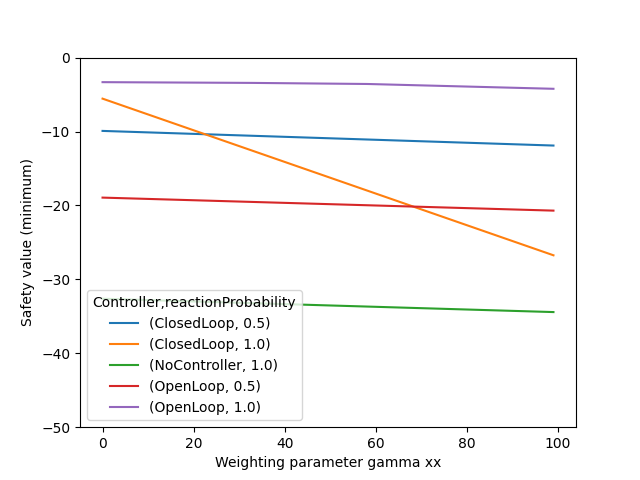
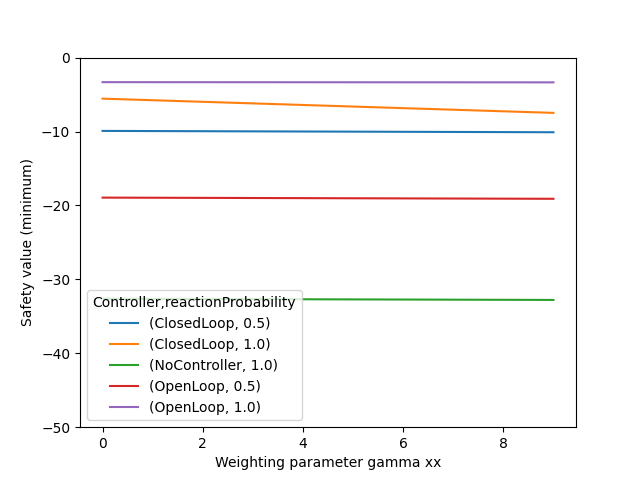
adjust range

diff --git a/analysis/uq/simulation_studies/guiding_crowds_forward_propagation/step_3_analyze_results.py b/analysis/uq/simulation_studies/guiding_crowds_forward_propagation/step_3_analyze_results.py
@@ -197,7 +197,7 @@ def get_safety_values(densities_normed):
     variances_ = densities_normed.groupby(by=["Controller", reaction_prob_key_short]).mad()**2
     variances_.drop(columns=[simulation_time], inplace=True)
 
-    gammas = np.arange(0,100)
+    gammas = np.arange(0,10)
     df2 = pd.DataFrame()
     df = pd.DataFrame()
     for gamma in gammas:
@@ -241,7 +241,7 @@ if __name__ == "__main__":
     safety_values_min.iloc[1,:].to_csv(file_name)
 
     file_name = os.path.join((output_dir), "safety_value_min_corridor.csv")
-    safety_values_min_corridors.apply(pd.value_counts).to_csv(file_name)
+    safety_values_min_corridors.to_csv(file_name)
     #densities_mean = densities.groupby(["Controller", reaction_prob_key_short]).median()
     #densities_mean.drop(columns=[simulation_time], inplace=True)
     #densities_std = densities.groupby(["Controller", reaction_prob_key_short]).mad()
